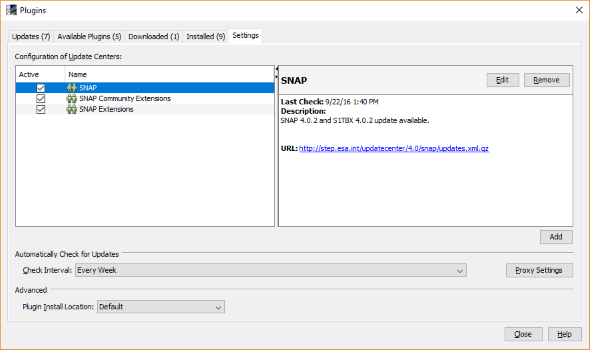
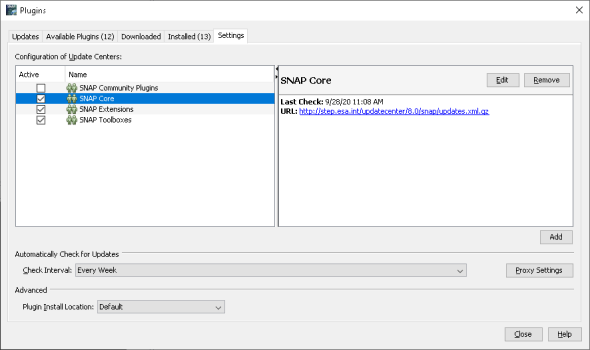
Update SNAP Update Centers name

diff --git a/snap-help/src/main/resources/org/esa/snap/snap/help/docs/desktop/Plugins.html b/snap-help/src/main/resources/org/esa/snap/snap/help/docs/desktop/Plugins.html
@@ -96,8 +96,8 @@
     </tr>
     <tr>
         <td style="border-width:0">Plugins are downloaded from so called update centers. In this settings tab you can add new update centers or
-            remove existing ones. By default there are already 3 centers present. One for the basic SNAP modules and one for SNAP extensions, mainly
-            the toolboxes. The third one is intended to host plugins provided by the community.
+            remove existing ones. By default there are already 4 centers present. One for the basic SNAP modules (SNAP Core), one for the toolboxes (SNAP Toolboxes),
+            one for SNAP supported plugins and one for SNAP Community Plugins. The last one is intended to host plugins provided by the community.
             Additionally you can define how often SNAP shall check for new updates and where new plugins shall be installed.
             Further you have access to the proxy settings if your network requires this.
         </td>
